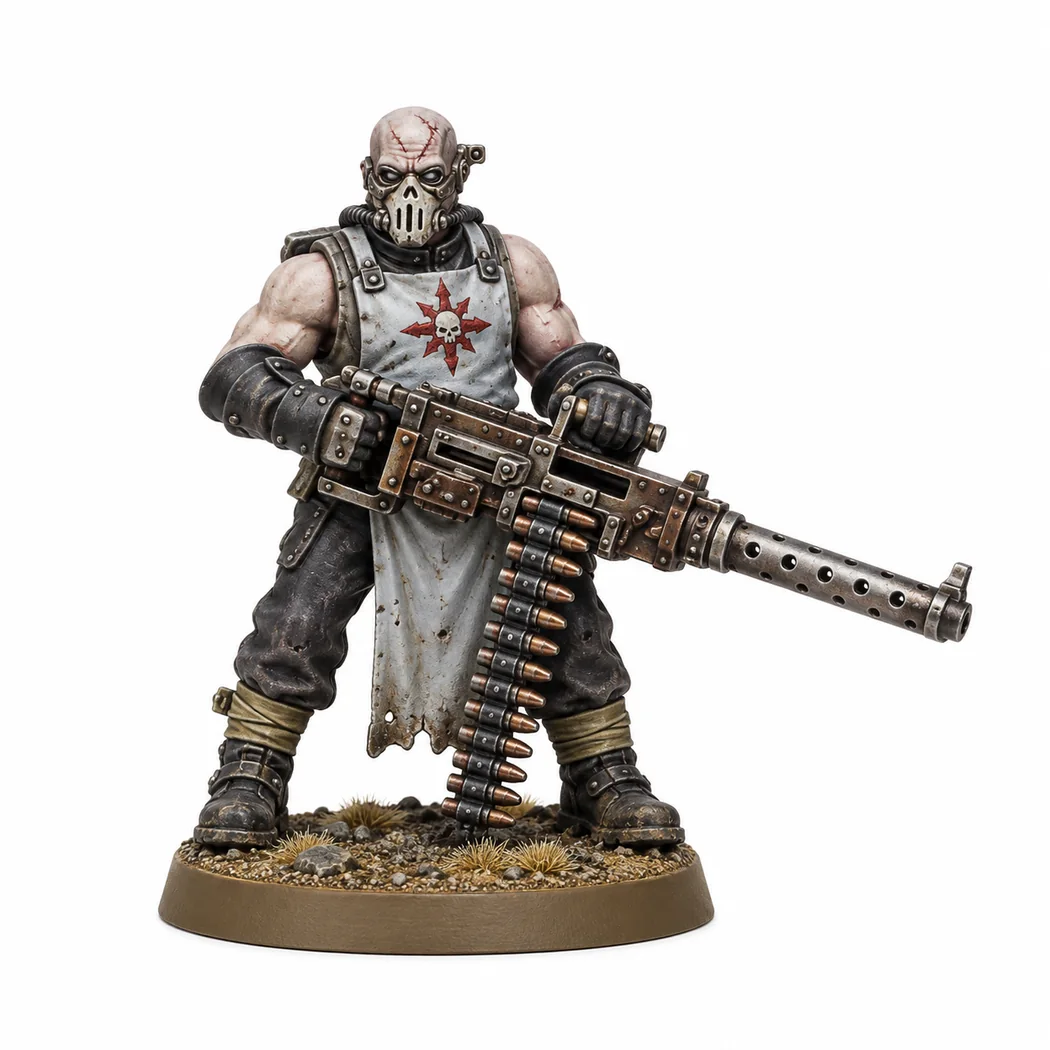
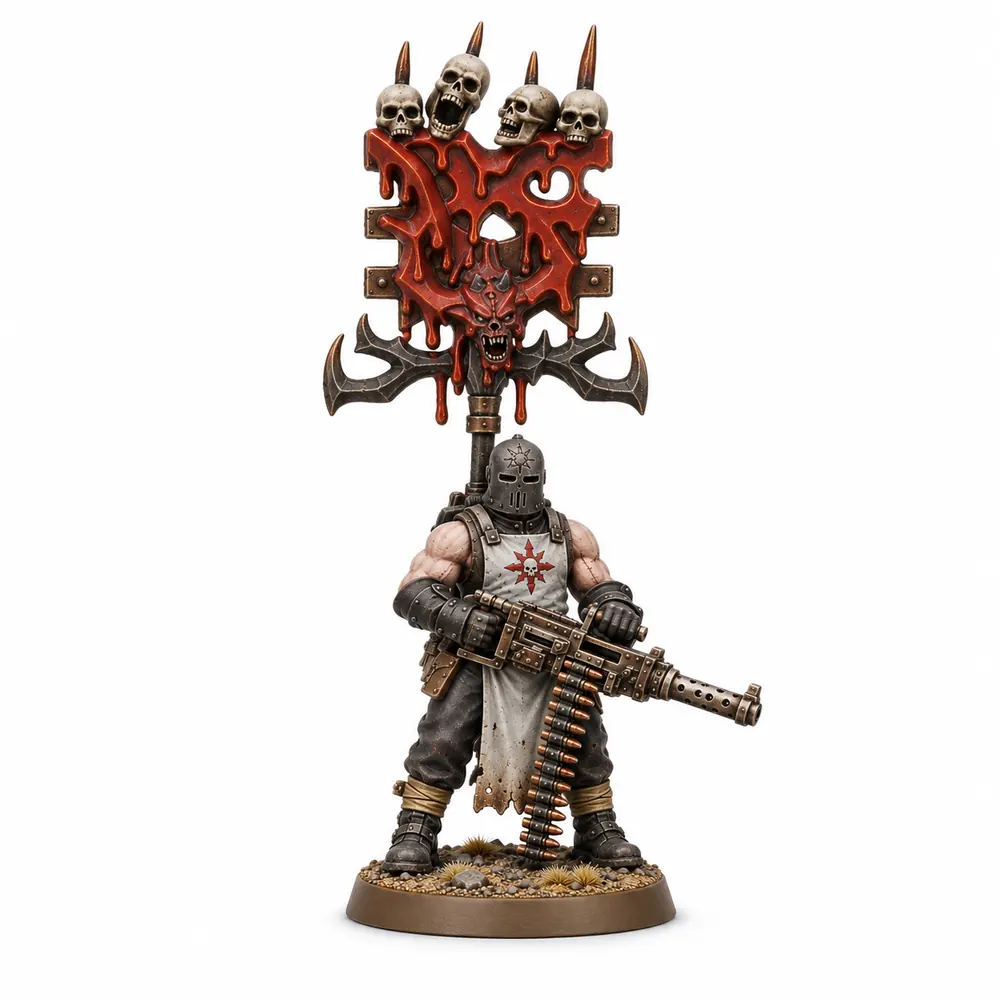
Replace Chaos woodcutter gunner miniature image

diff --git a/severed-ember/index.html b/severed-ember/index.html
@@ -2717,7 +2717,7 @@ M42的监听簿里，十三秒的引力脉冲仍在。</p>
 </table></div>
 <p><strong>规则</strong>：人群掩护（10+模型时获得轻掩体）；狂热牺牲（被摧毁时，相邻一个混沌星际战士单位可立即进行一次免费近战攻击）。</p>
 <h6 id="rules-enemy-units-g04-u02">伐木枪手</h6>
-<figure class="rules-unit-portrait rules-zip-portrait" data-unit="rules-enemy-units-g04-u02" data-zip-2222="rules-enemy-units-g04-u02"><a href="assets/rules/zip-2222-20261116/rules-enemy-units-g04-u02.webp" target="_blank" rel="noopener noreferrer" aria-label="查看伐木枪手完整配图"><img src="assets/rules/zip-2222-20261116/rules-enemy-units-g04-u02.webp" alt="伐木枪手单位配图" loading="lazy" decoding="async"></a></figure>
+<figure class="rules-unit-portrait rules-zip-portrait" data-unit="rules-enemy-units-g04-u02" data-zip-2222="rules-enemy-units-g04-u02"><a href="assets/rules/zip-2222-20261116/rules-enemy-units-g04-u02.webp?v=fe1693ff" target="_blank" rel="noopener noreferrer" aria-label="查看伐木枪手完整配图"><img src="assets/rules/zip-2222-20261116/rules-enemy-units-g04-u02.webp?v=fe1693ff" alt="伐木枪手单位配图" loading="lazy" decoding="async"></a></figure>
 <p>1人， 15分</p>
 <div class="table-scroll"><table>
 <tr><th>M</th><th>T</th><th>SV</th><th>W</th><th>LD</th><th>OC</th></tr>
